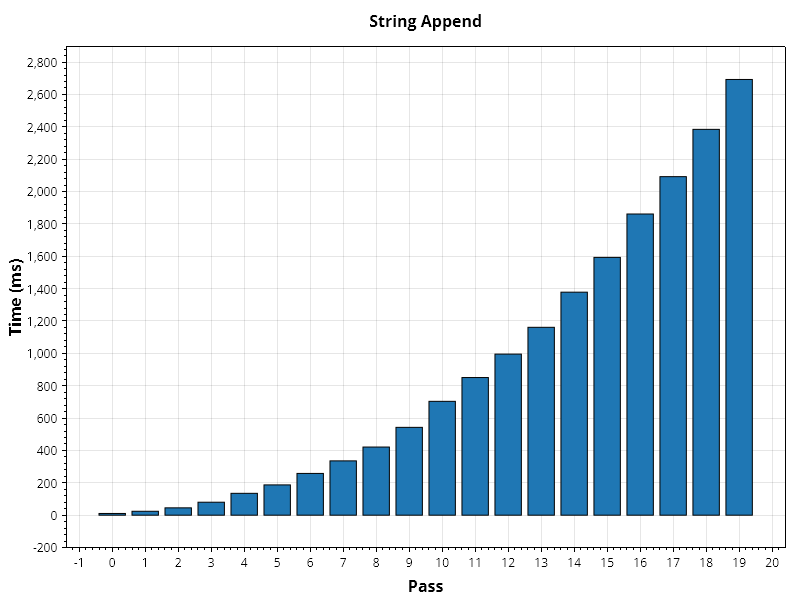
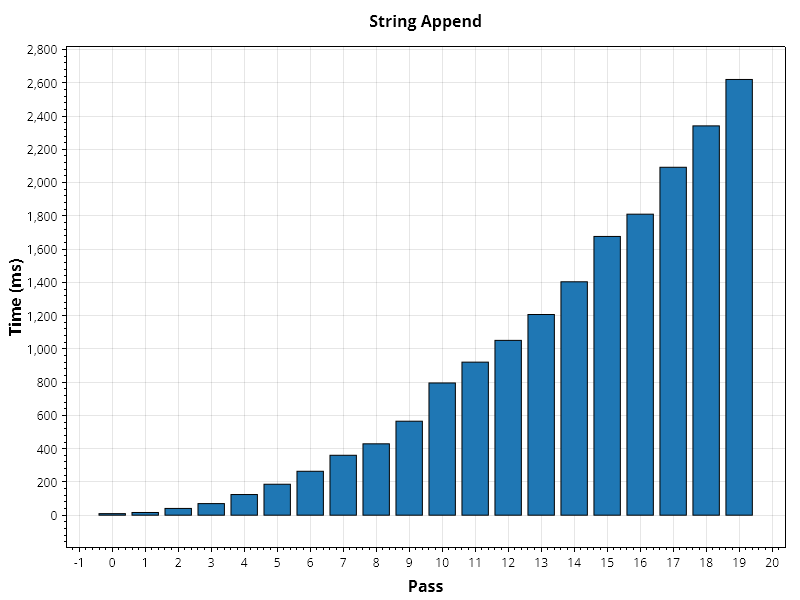
task2 fix

diff --git a/Week8/TopicA/Program.cs b/Week8/TopicA/Program.cs
@@ -62,28 +62,10 @@ class Program
             scores.Remove(highest);
         }
 
-        // task3
+        // task2
         
-        string a = "";
-
-        for (int i = 0; i < 100000; i++)
-        {
-            a += "z";
-        }
-
-        Console.WriteLine("String finished");
-
-
-        
-        StringBuilder b = new StringBuilder();
-
-        for (int i = 0; i < 100000; i++)
-        {
-            b.Append("z");
-        }
-
-        Console.WriteLine("StringBuilder finished");
     
+
 
         int iterations = 20;
 
